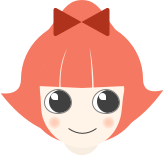
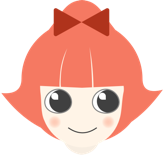
touched head

diff --git a/src/scripts/controller.js b/src/scripts/controller.js
@@ -1,6 +1,7 @@
 import * as nipplejs from 'nipplejs'
 
 import * as visualize from './visualize'
+import touchedHeadURL from '../assets/joystick-head-touched.png'
 
 export function initJoystick() {
   const joystickZone = document.getElementById('joystick-head')
@@ -12,6 +13,7 @@ export function initJoystick() {
   })
   const mask = document.getElementById('mask')
   const originHeight = 78
+  const headURL = joystickZone.src
   joystick
     .on('move', (evt, data) => {
       const tx = data.distance * Math.cos(data.angle.radian)
@@ -22,7 +24,11 @@ export function initJoystick() {
       mask.style.marginLeft = `${tx}px`
       mask.style.marginTop = `${-ty}px`
     })
+    .on('start', (evt, data) => {
+      joystickZone.src = touchedHeadURL
+    })
     .on('end', (evt, data) => {
+      joystickZone.src = headURL
       joystickZone.style.transform = `rotate(0deg)`
       joystickZone.style.height = `${originHeight}px`
       mask.style.marginLeft = 0

diff --git a/src/styles/main.scss b/src/styles/main.scss
@@ -93,6 +93,7 @@ $canvas-height: 800px;
   top: 50px;
   left: 50px;
   z-index: 9;
+  cursor: pointer;
   #logo {
     width: 20px;
     height: 20px;
